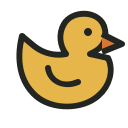
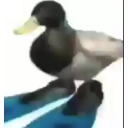
style: replace the duck illustration with the selected photo

diff --git a/popup.html b/popup.html
@@ -9,7 +9,7 @@
 <body>
   <main class="app-shell">
     <header class="topbar">
-      <div class="brand"><img src="icons/duck.svg" width="28" height="28" alt=""><h1>duckCloner</h1></div>
+      <div class="brand"><img src="icons/duck.png" width="38" height="38" alt=""><h1>duckCloner</h1></div>
       <span id="version" class="version">4.4.0</span>
     </header>
     <section class="page-context" aria-label="Current page">

diff --git a/README.md b/README.md
@@ -4,7 +4,7 @@ Save pages and browsing sequences as offline ZIPs. A small Manifest V3 extension
 
 Previously named **catCloner**. The GitHub repository is now **[duck-cloner](https://github.com/gui-bertoso/duck-cloner)**.
 
-![Snapshot interface](snapshot-preview.png)
+![Snapshot interface](snapshot-duck-preview.png)
 
 ## Two ways to capture
 
